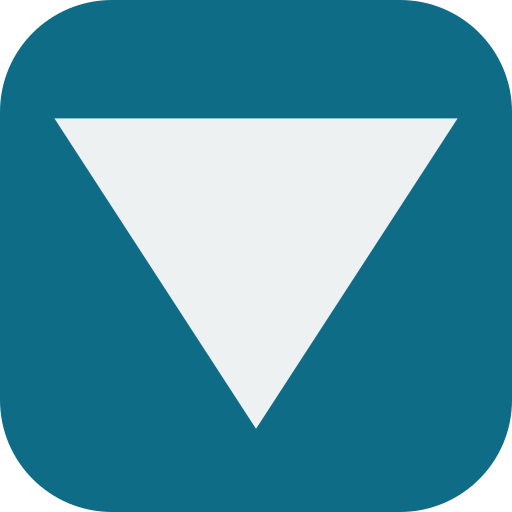
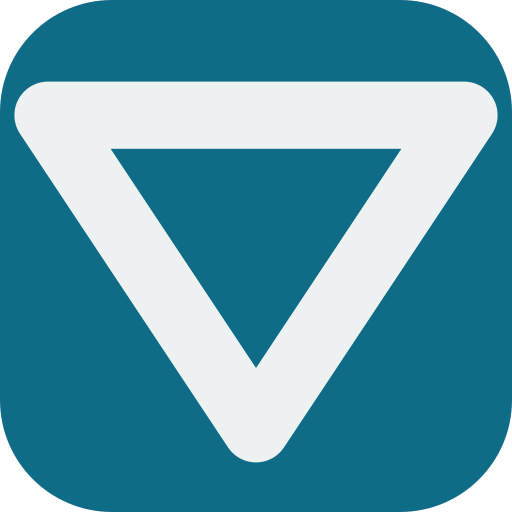
fix: escala do mapa limitada pela janela e ícone vazado
O MAPA CONTINUAVA CORTADO. Medindo o passo entre colunas no site publicado
(212px = 172 de cartão + 40 de corredor), a escala aplicada era 1,0: o
cálculo concluiu que cabia. Ou seja, `rolagem.clientWidth` reportava ~2080
em vez da largura da janela — algum ancestral ainda estava esticado, e o
`min-width: 0` não bastou.

Sem navegador para reproduzir aqui, a saída foi tornar a conta imune à
causa: além da caixa do contêiner, o ajuste passa a considerar
`documentElement.clientWidth` — a viewport menos a barra de rolagem, que é
a única medida que não depende de ancestral nenhum. E cada peça larga do
painel ganha `max-width: 100%`, então um ancestral esticado por engano para
de arrastar o resto.

Sai o `overflow-x: clip` do <html>. Ele escondia o defeito da pior forma:
cortava sem dar rolagem, e a etiqueta do estágio e o 10º período ficavam
inalcançáveis. Se algo transbordar, é melhor poder rolar até lá e ver.

O ÍCONE VOLTOU A SER VAZADO. Maciço ele deixa de ser o operador nabla e lê
como seta para baixo — erro meu na tentativa anterior. O que resolve o
tamanho pequeno não é preencher, é engrossar o traço. Calibrado por medição,
não por estimativa: a 16px, traço 2,4 deixa 5% de tinta e desaparece; traço
5 fecha o vazado e vira triângulo cheio; 4,2 dá 22% com o centro ainda
aberto.

Tira também do texto de ajuda a explicação de por que as setas ficam de
fundo. Era eu justificando uma decisão de design para quem só quer usar o
mapa.

diff --git a/src/ilhas/grade-ui.ts b/src/ilhas/grade-ui.ts
@@ -164,10 +164,20 @@ export function ligarGrade() {
   function ajuste() {
     const estilo = getComputedStyle(rolagem);
     const padding = parseFloat(estilo.paddingLeft) + parseFloat(estilo.paddingRight);
-    const disponivel = rolagem.clientWidth - padding;
+
+    /* LIMITE DUPLO, e o segundo é o que importa: além da caixa do contêiner,
+       a largura da JANELA. Se algum ancestral for esticado — o que já
+       aconteceu, por causa de `min-width: auto` numa coluna flex —,
+       clientWidth passa a reportar a largura do conteúdo e o mapa "cabe" em
+       escala 1, ficando cortado. documentElement.clientWidth é a viewport
+       menos a barra de rolagem: essa medida não mente. */
+    const janela = document.documentElement.clientWidth;
+    const respiro = 2 * 24; /* mesma margem lateral da página */
+    const disponivel = Math.min(rolagem.clientWidth, janela - respiro) - padding;
+
     /* sem o teto de 1 o mapa esticaria além do tamanho natural em tela
        larga, e os cartões ficariam borrados — melhor sobrar margem */
-    return Math.min(1, disponivel / Math.max(1, medirNatural()));
+    return Math.min(1, Math.max(0.2, disponivel) / Math.max(1, medirNatural()));
   }
 
   function aplicarEscala() {

diff --git a/src/styles/base.css b/src/styles/base.css
@@ -25,11 +25,14 @@ html {
   -webkit-text-size-adjust: 100%;
   scroll-behavior: smooth;
   scroll-padding-top: var(--e-7);
-  /* O corpo da página NUNCA rola para o lado: conteúdo largo (mapa, tabela,
-     fórmula) rola dentro do próprio contêiner. Isto é rede de segurança —
-     se algo transbordar por engano, o estrago fica contido em vez de
-     deslocar a página inteira, como já aconteceu com o mapa da grade. */
-  overflow-x: clip;
+  /* Conteúdo largo (mapa, tabela, fórmula) rola dentro do próprio
+     contêiner — a página não deveria rolar para o lado.
+
+     Mas aqui NÃO se usa `overflow-x: clip`: clip corta sem dar rolagem, e
+     o que fica fora da tela vira inalcançável. Já aconteceu: a etiqueta do
+     estágio e o 10º período ficaram cortados sem jeito de chegar neles.
+     Se algo transbordar, é melhor poder rolar até ele e ver o defeito. */
+  max-width: 100%;
 }
 
 /* ------------------------------ o papel ---------------------------------

diff --git a/public/LEIA-ME-icones.md b/public/LEIA-ME-icones.md
@@ -31,10 +31,13 @@ magick /tmp/ico/16.png /tmp/ico/32.png public/favicon.ico
 
 ## Duas decisões
 
-**O ∇ é maciço aqui, e de traço no site.** Na guia o ícone é desenhado a
-16px, e traço de 2px ali vira um fio que desaparece. A identidade se mantém
-pela forma, não pelo acabamento.
+**O ∇ continua VAZADO, com traço grosso.** Maciço ele deixa de ser o
+operador nabla e passa a ler como uma seta para baixo — foi a primeira
+tentativa, e estava errada. O que resolve o tamanho pequeno não é preencher,
+é engrossar: traço de 4,2 (em 32 de viewBox) sobrevive a 16px e mantém o
+vazado.
 
-**O glifo ocupa ~20% da placa.** Medido, não estimado: com a margem original
-ele ficava em 12% e sumia no tamanho real. A placa colorida também resolve o
-contraste — funciona na barra clara e na escura, sem depender do tema.
+**A calibragem foi medida, não estimada.** A 16px, traço 2,4 deixa 5% de
+tinta e desaparece; traço 5 fecha o vazado e vira triângulo cheio. 4,2 dá 22%
+com o centro ainda aberto. A placa colorida resolve o contraste — funciona na
+barra clara e na escura, sem depender do tema.
